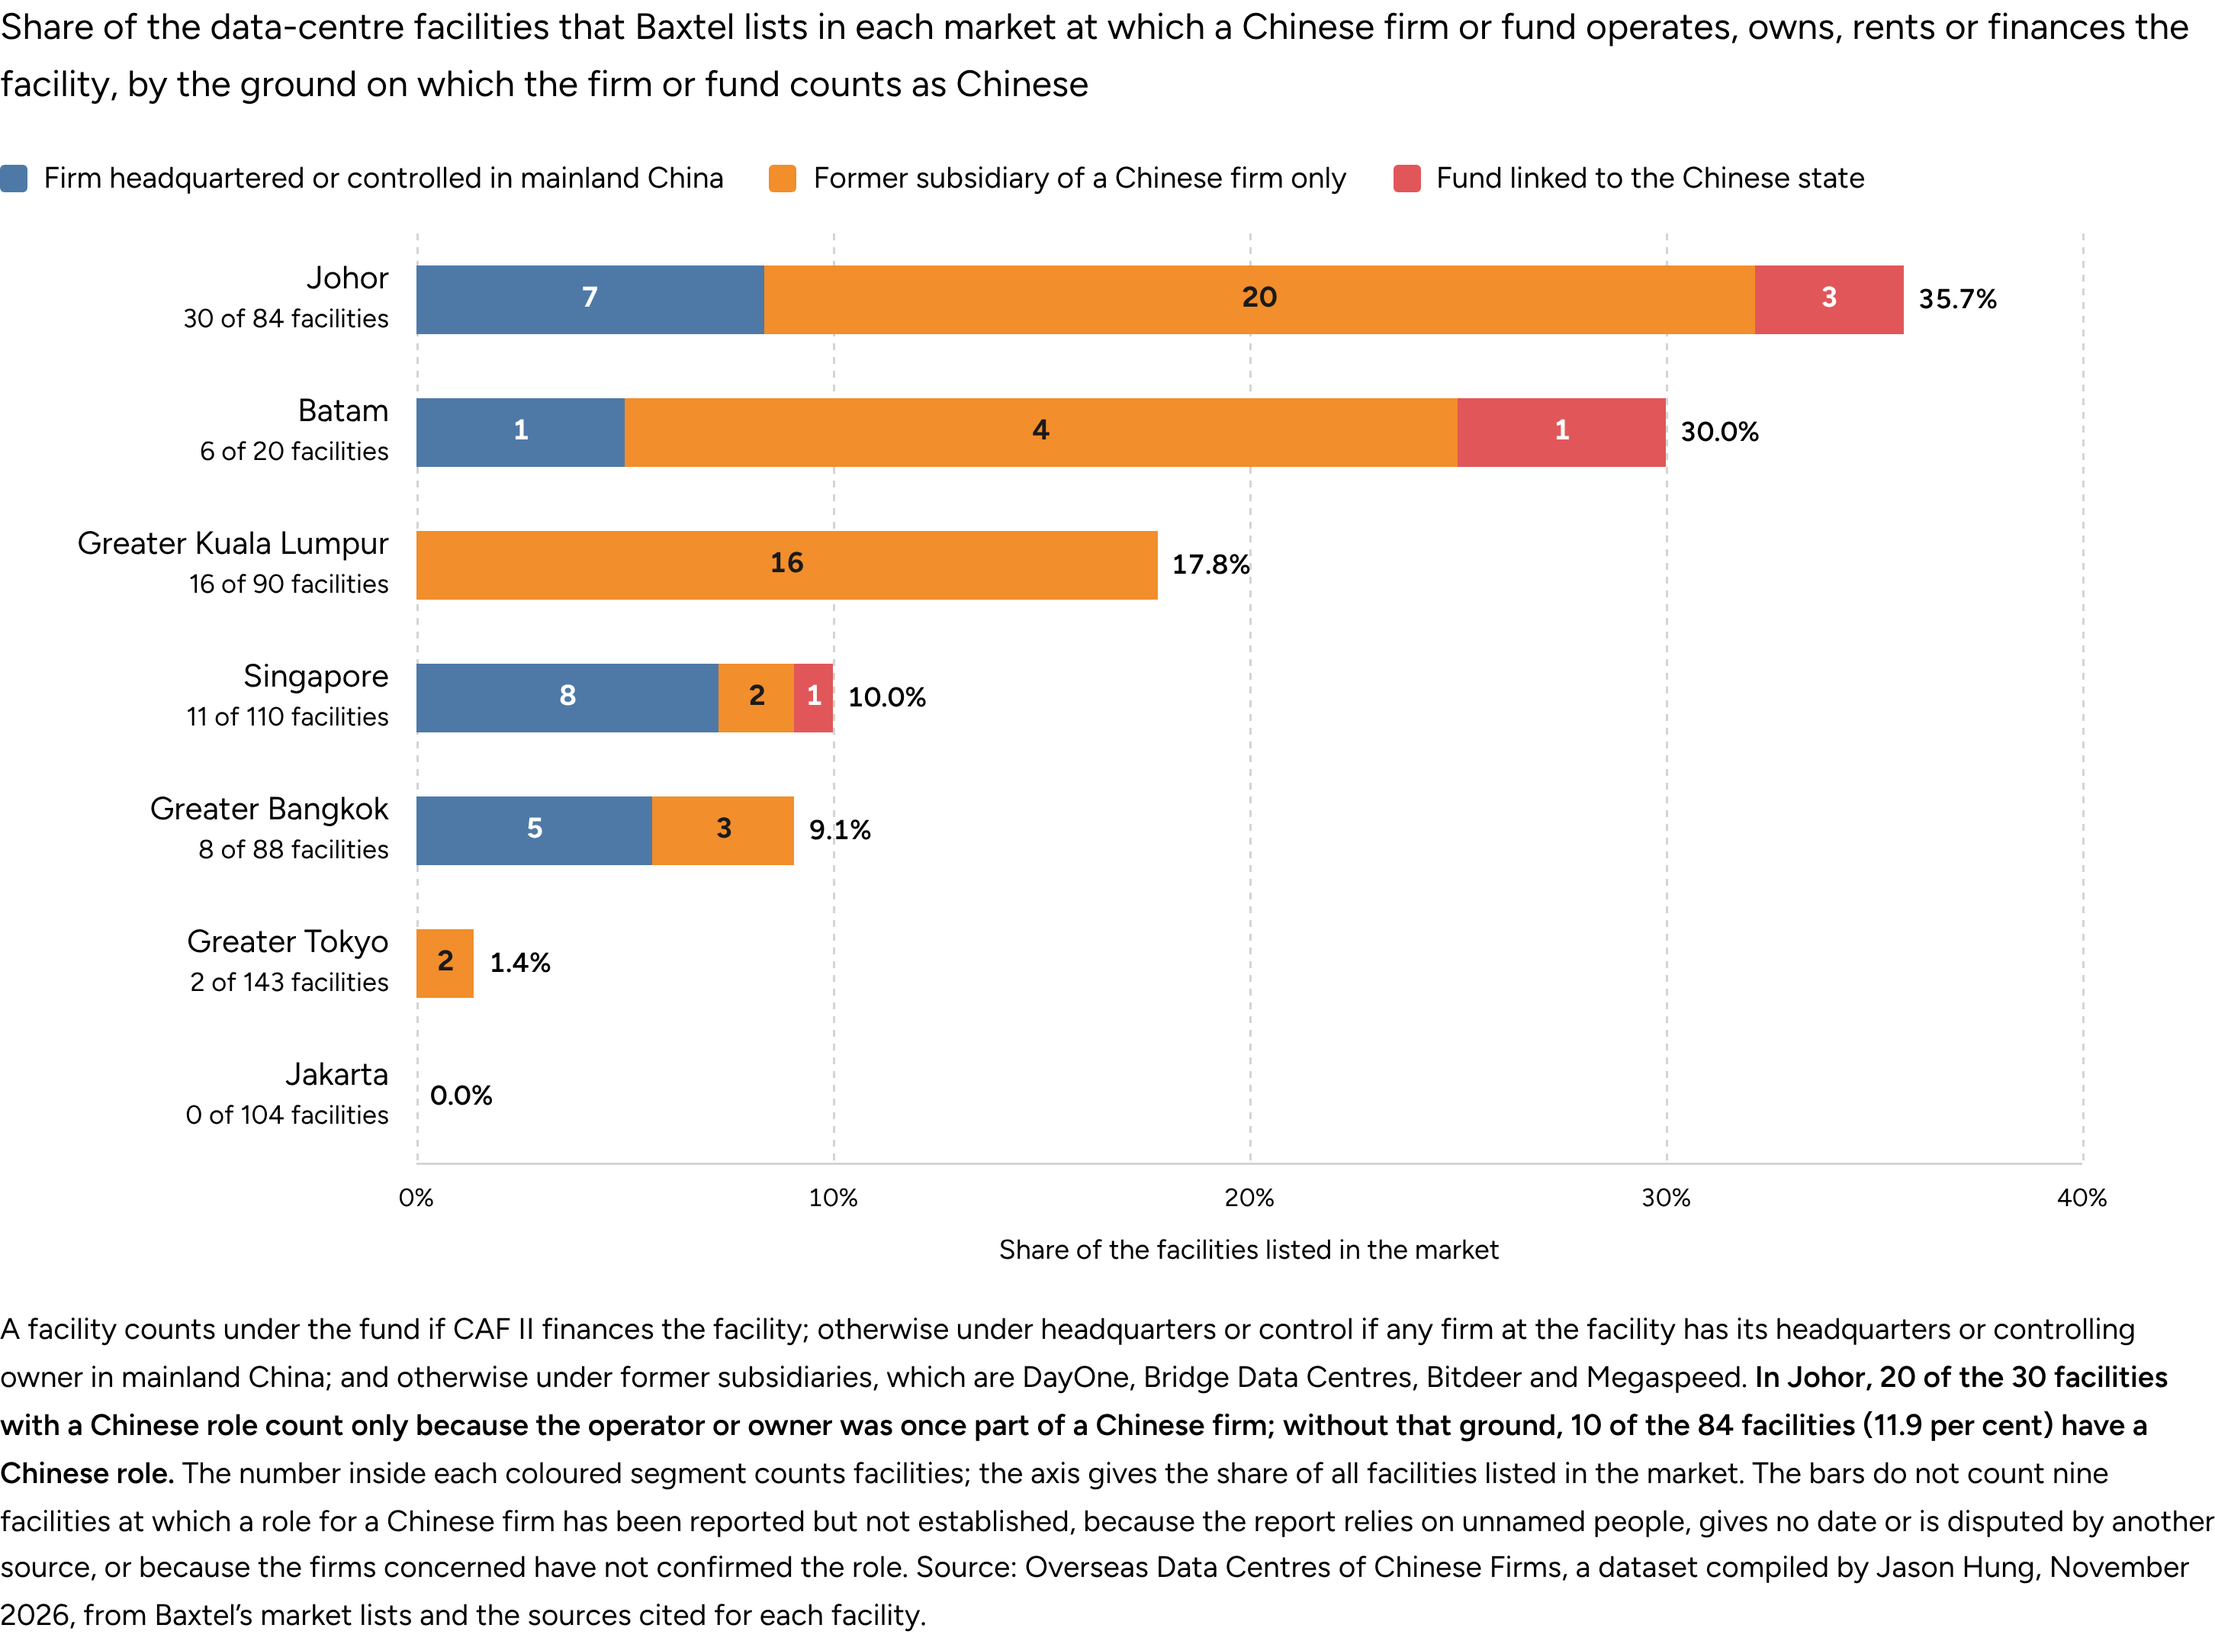
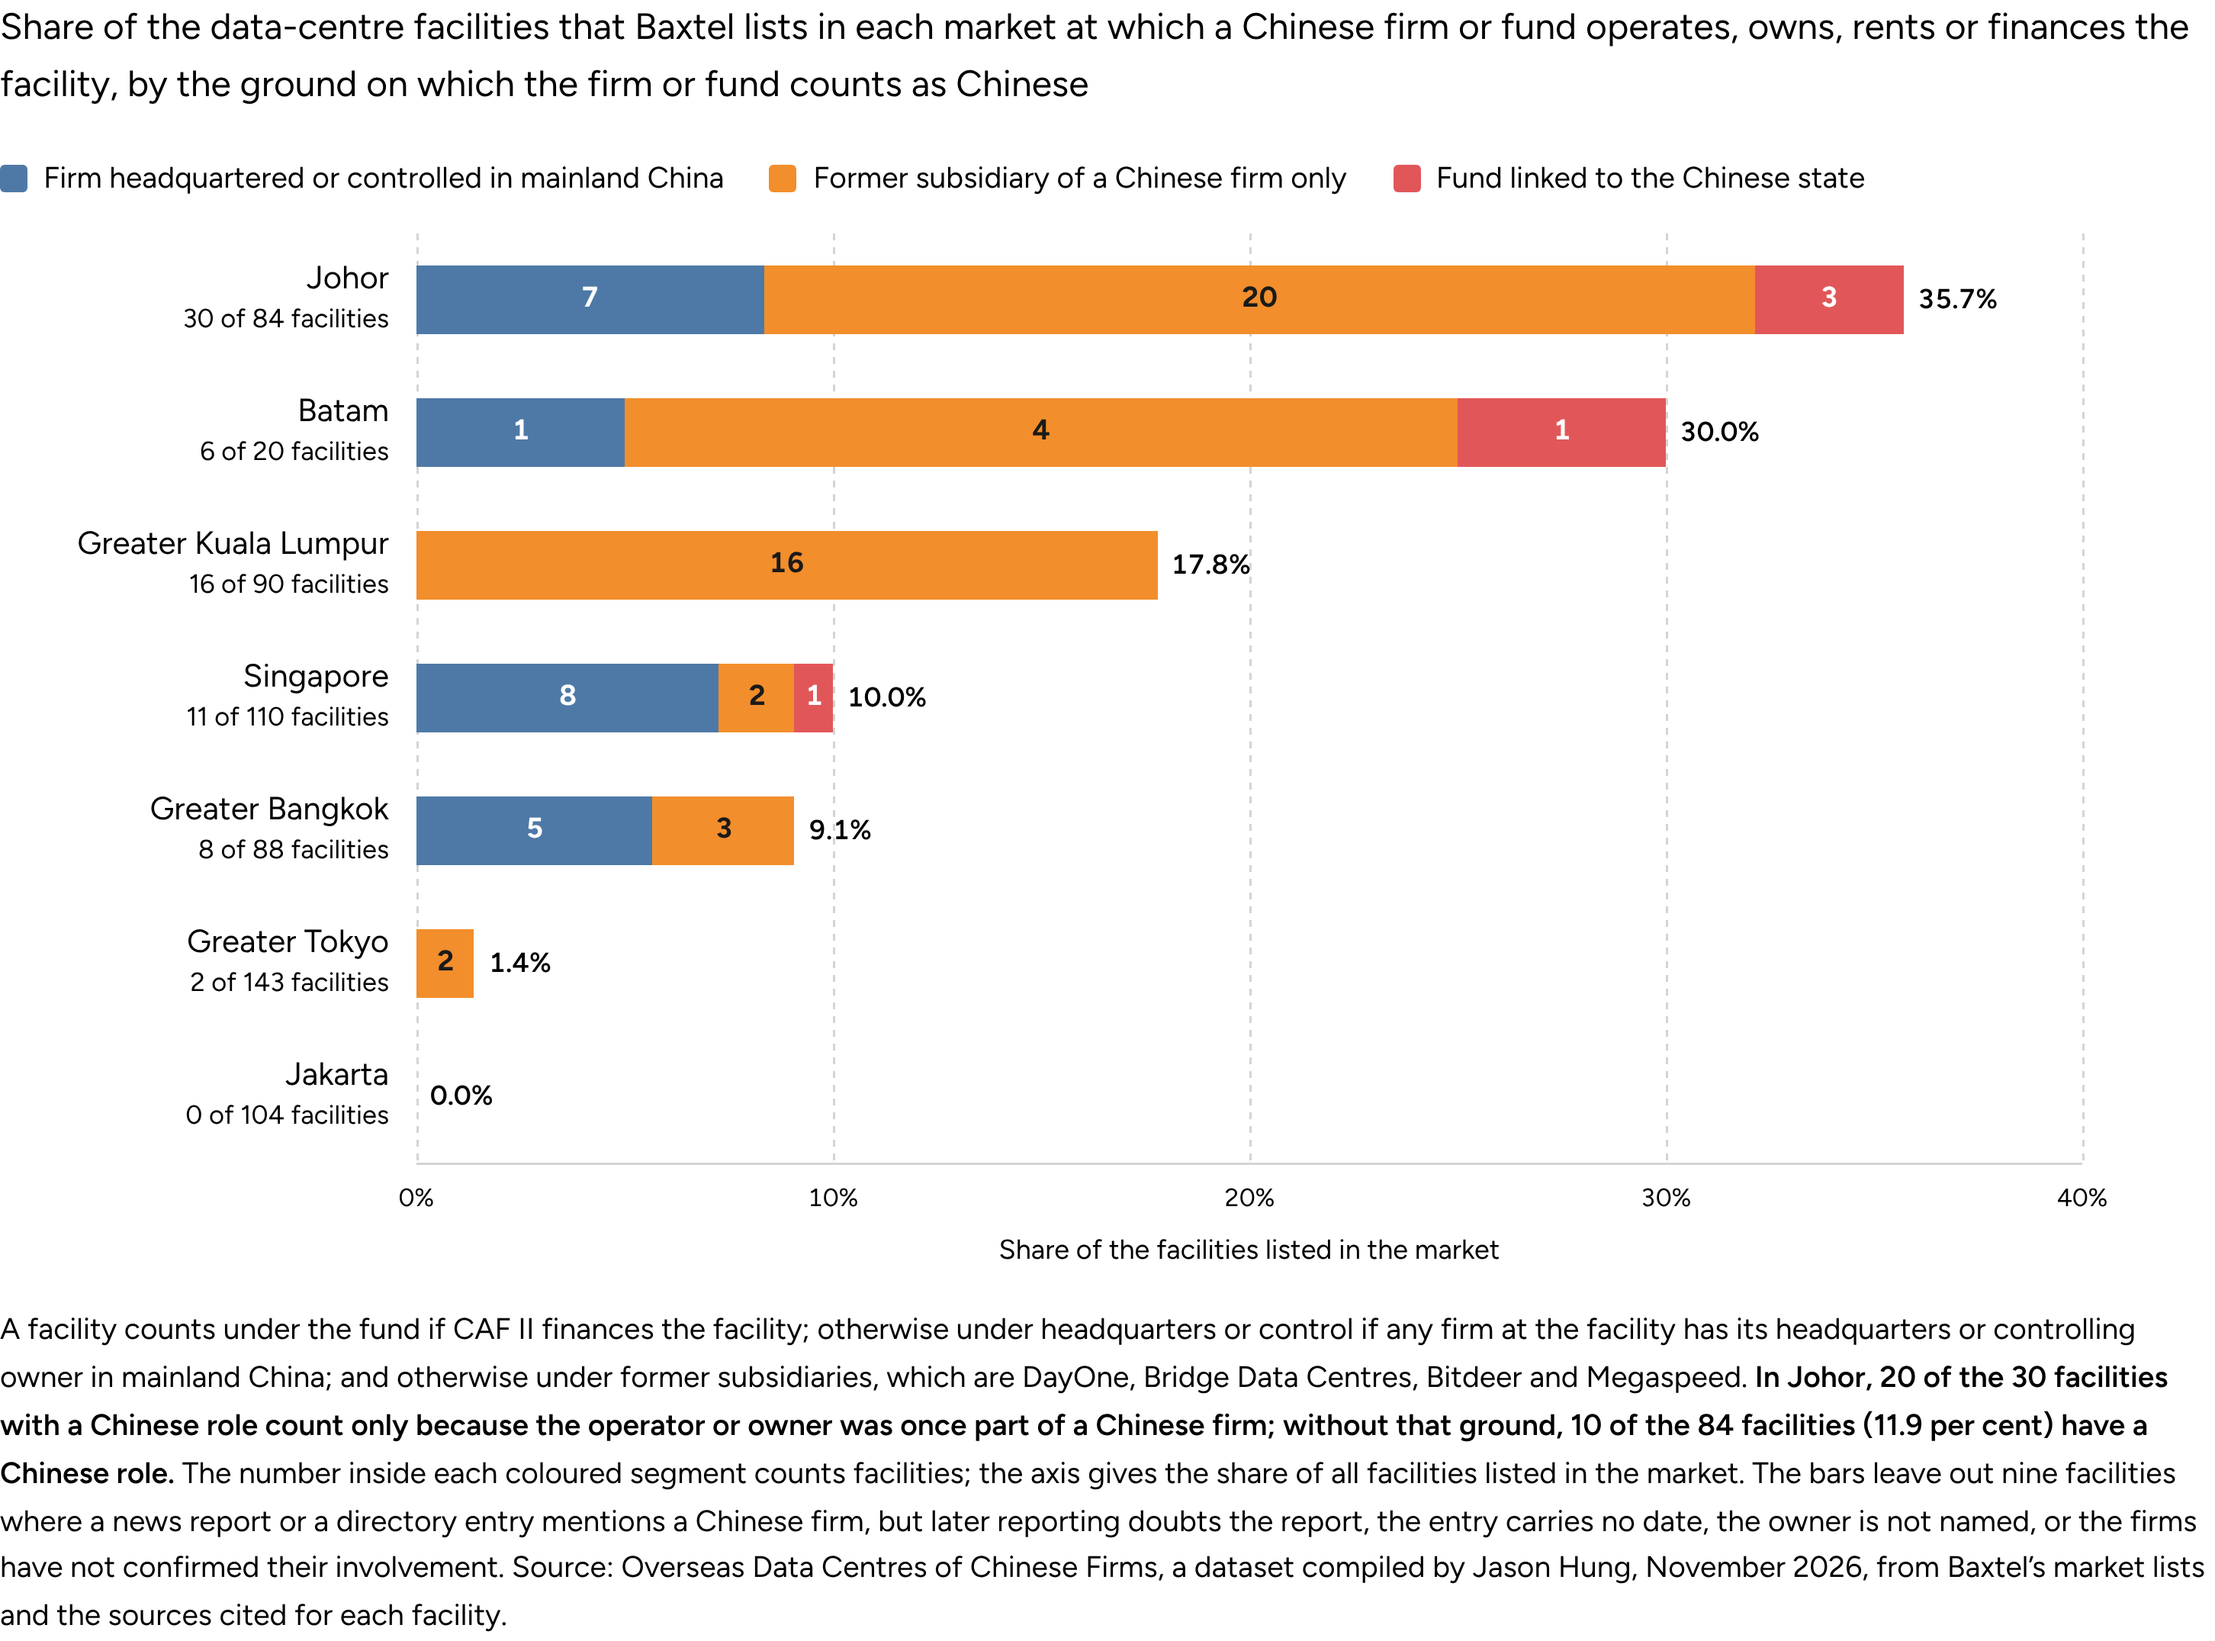
Say plainly in the note of the chart which nine facilities are left out

Changed region(s): [[0.0, 0.8722, 1.0, 0.9967]]

diff --git a/site/figures/seven-markets.html b/site/figures/seven-markets.html
@@ -791,7 +791,7 @@ headquarters or control if any firm at the facility has its headquarters or cont
 subsidiaries, which are DayOne, Bridge Data Centres, Bitdeer and Megaspeed. <b>In Johor, 20 of the 30 facilities with a Chinese role count only
 because the operator or owner was once part of a Chinese firm; without that ground, 10 of the 84 facilities (11.9 per cent) have a Chinese
 role.</b> The number inside each coloured segment counts facilities; the axis gives the share of all facilities
-listed in the market. The bars do not count nine facilities at which a role for a Chinese firm has been reported but not established, because the report relies on unnamed people, gives no date or is disputed by another source, or because the firms concerned have not confirmed the role. Source: Overseas Data Centres
+listed in the market. The bars leave out nine facilities where a news report or a directory entry mentions a Chinese firm, but later reporting doubts the report, the entry carries no date, the owner is not named, or the firms have not confirmed their involvement. Source: Overseas Data Centres
 of Chinese Firms, a dataset compiled by Jason Hung, November 2026, from Baxtel&rsquo;s market lists and the sources cited for each facility.</p>
 </section></main><div class="fx-card" id="fx-card" hidden role="status" aria-live="polite"></div><script>
 window.fxCard=(function(){
